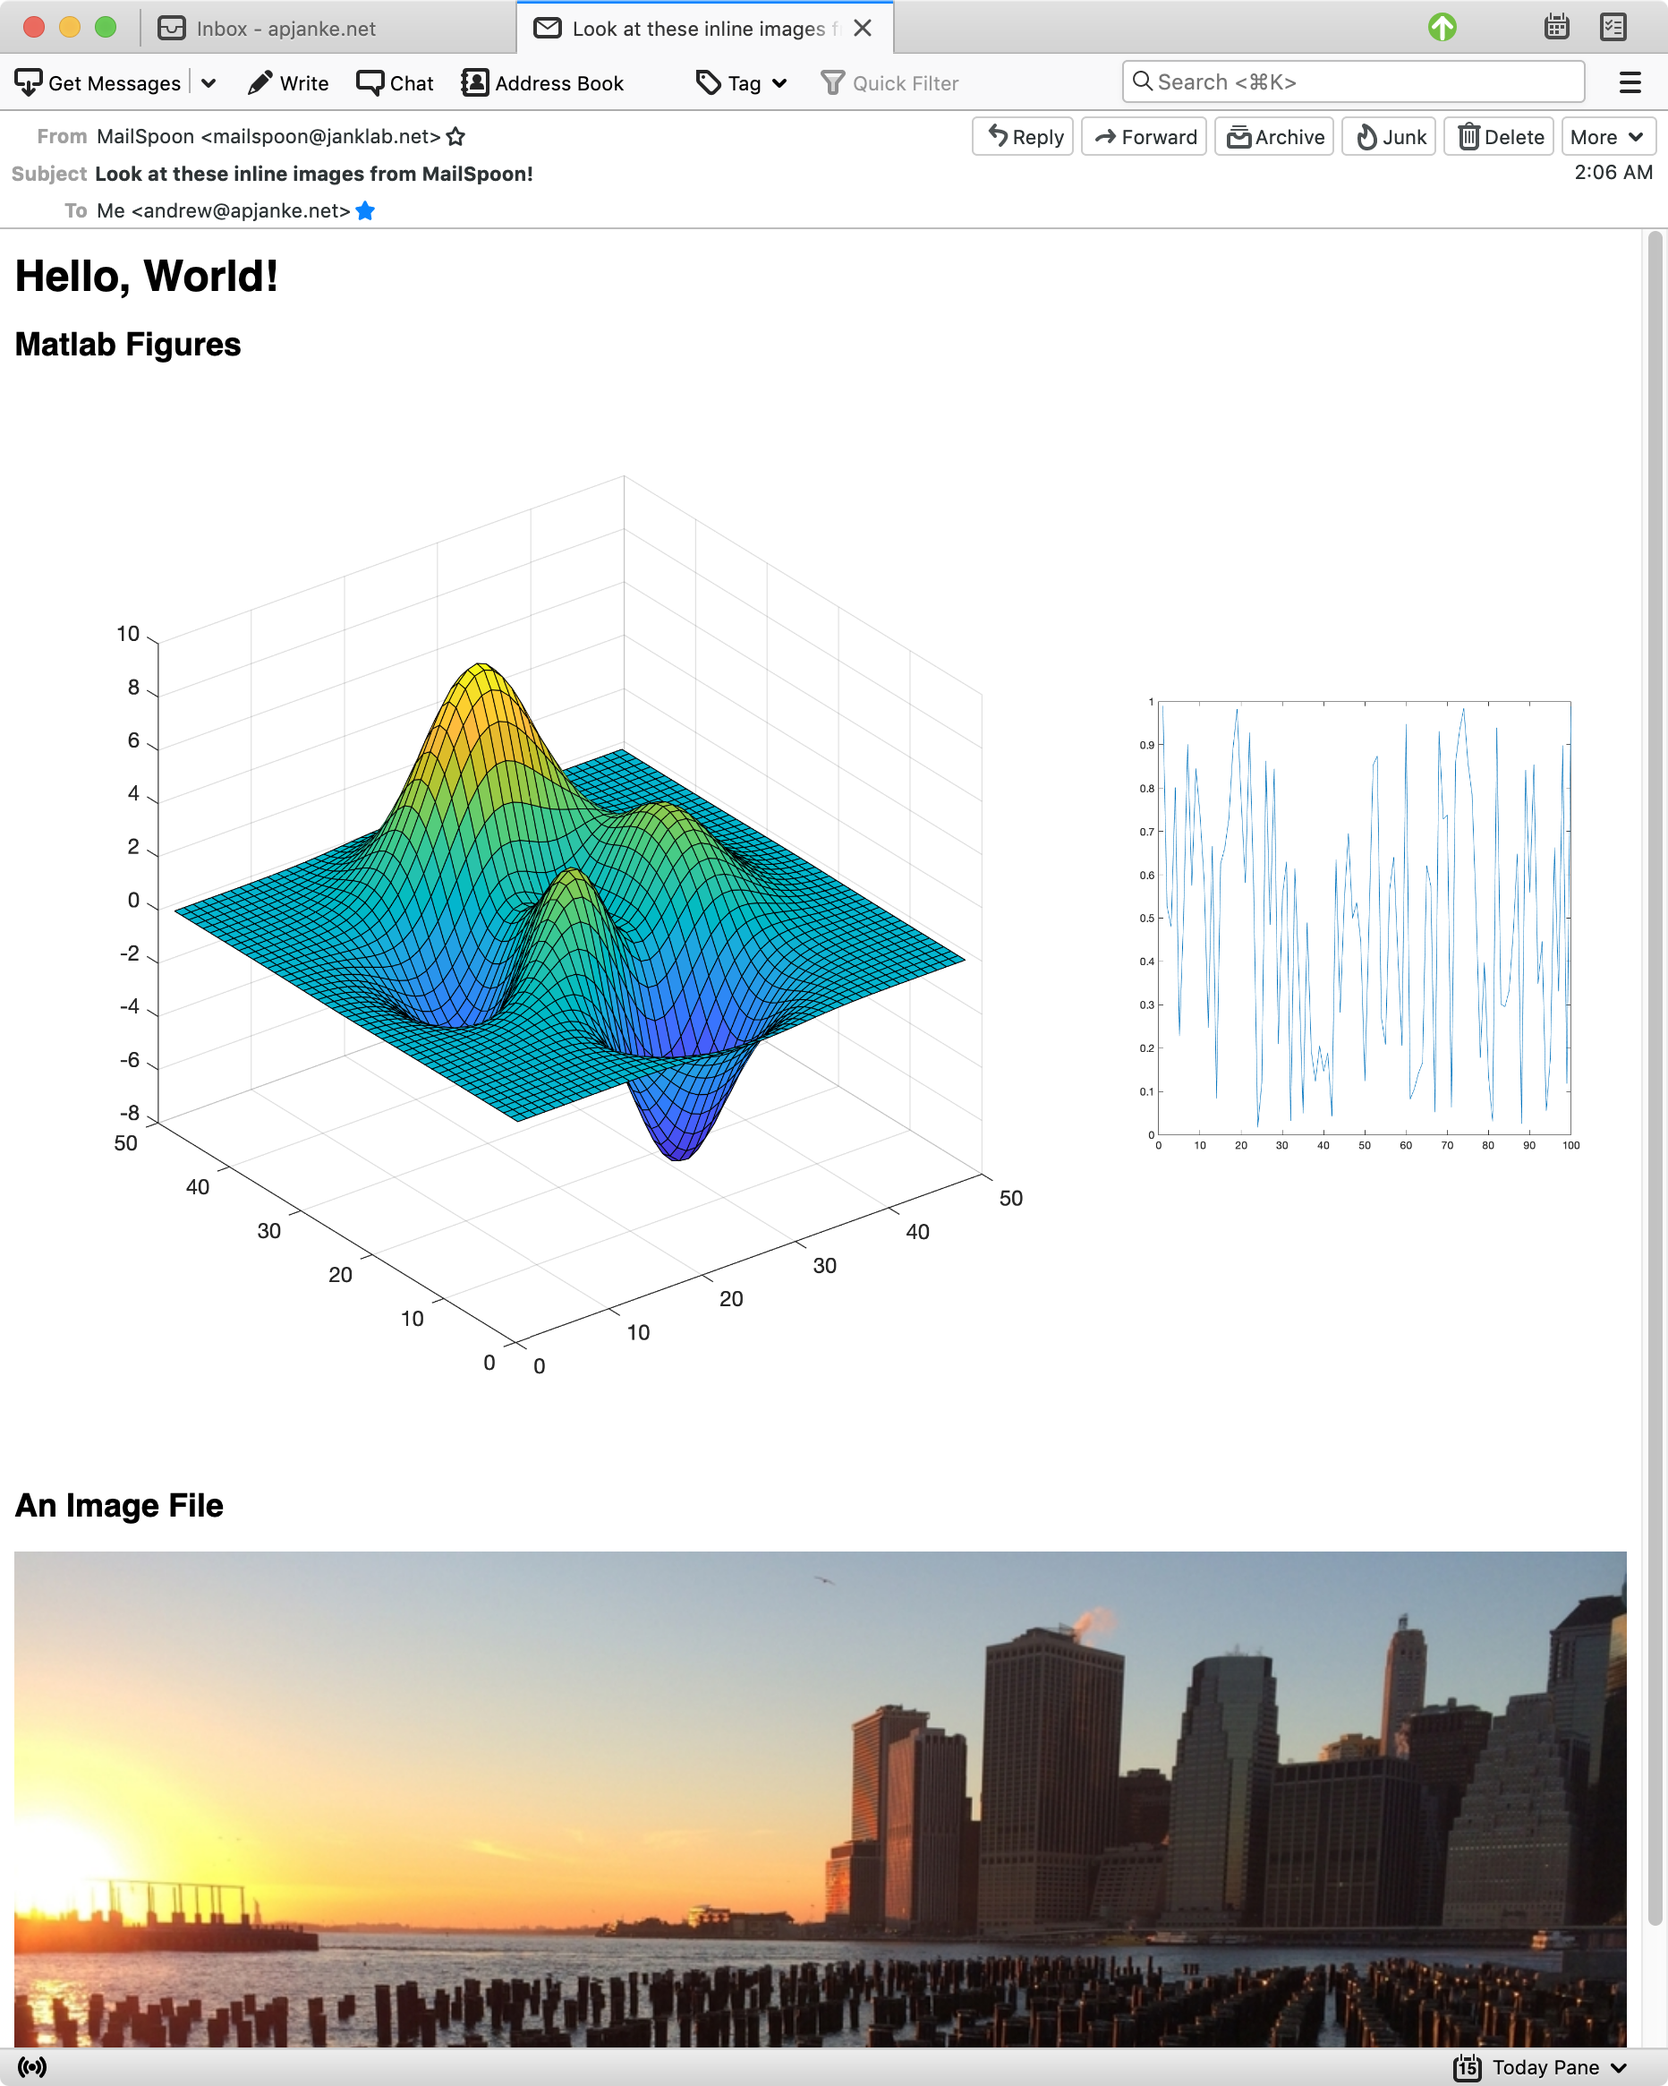
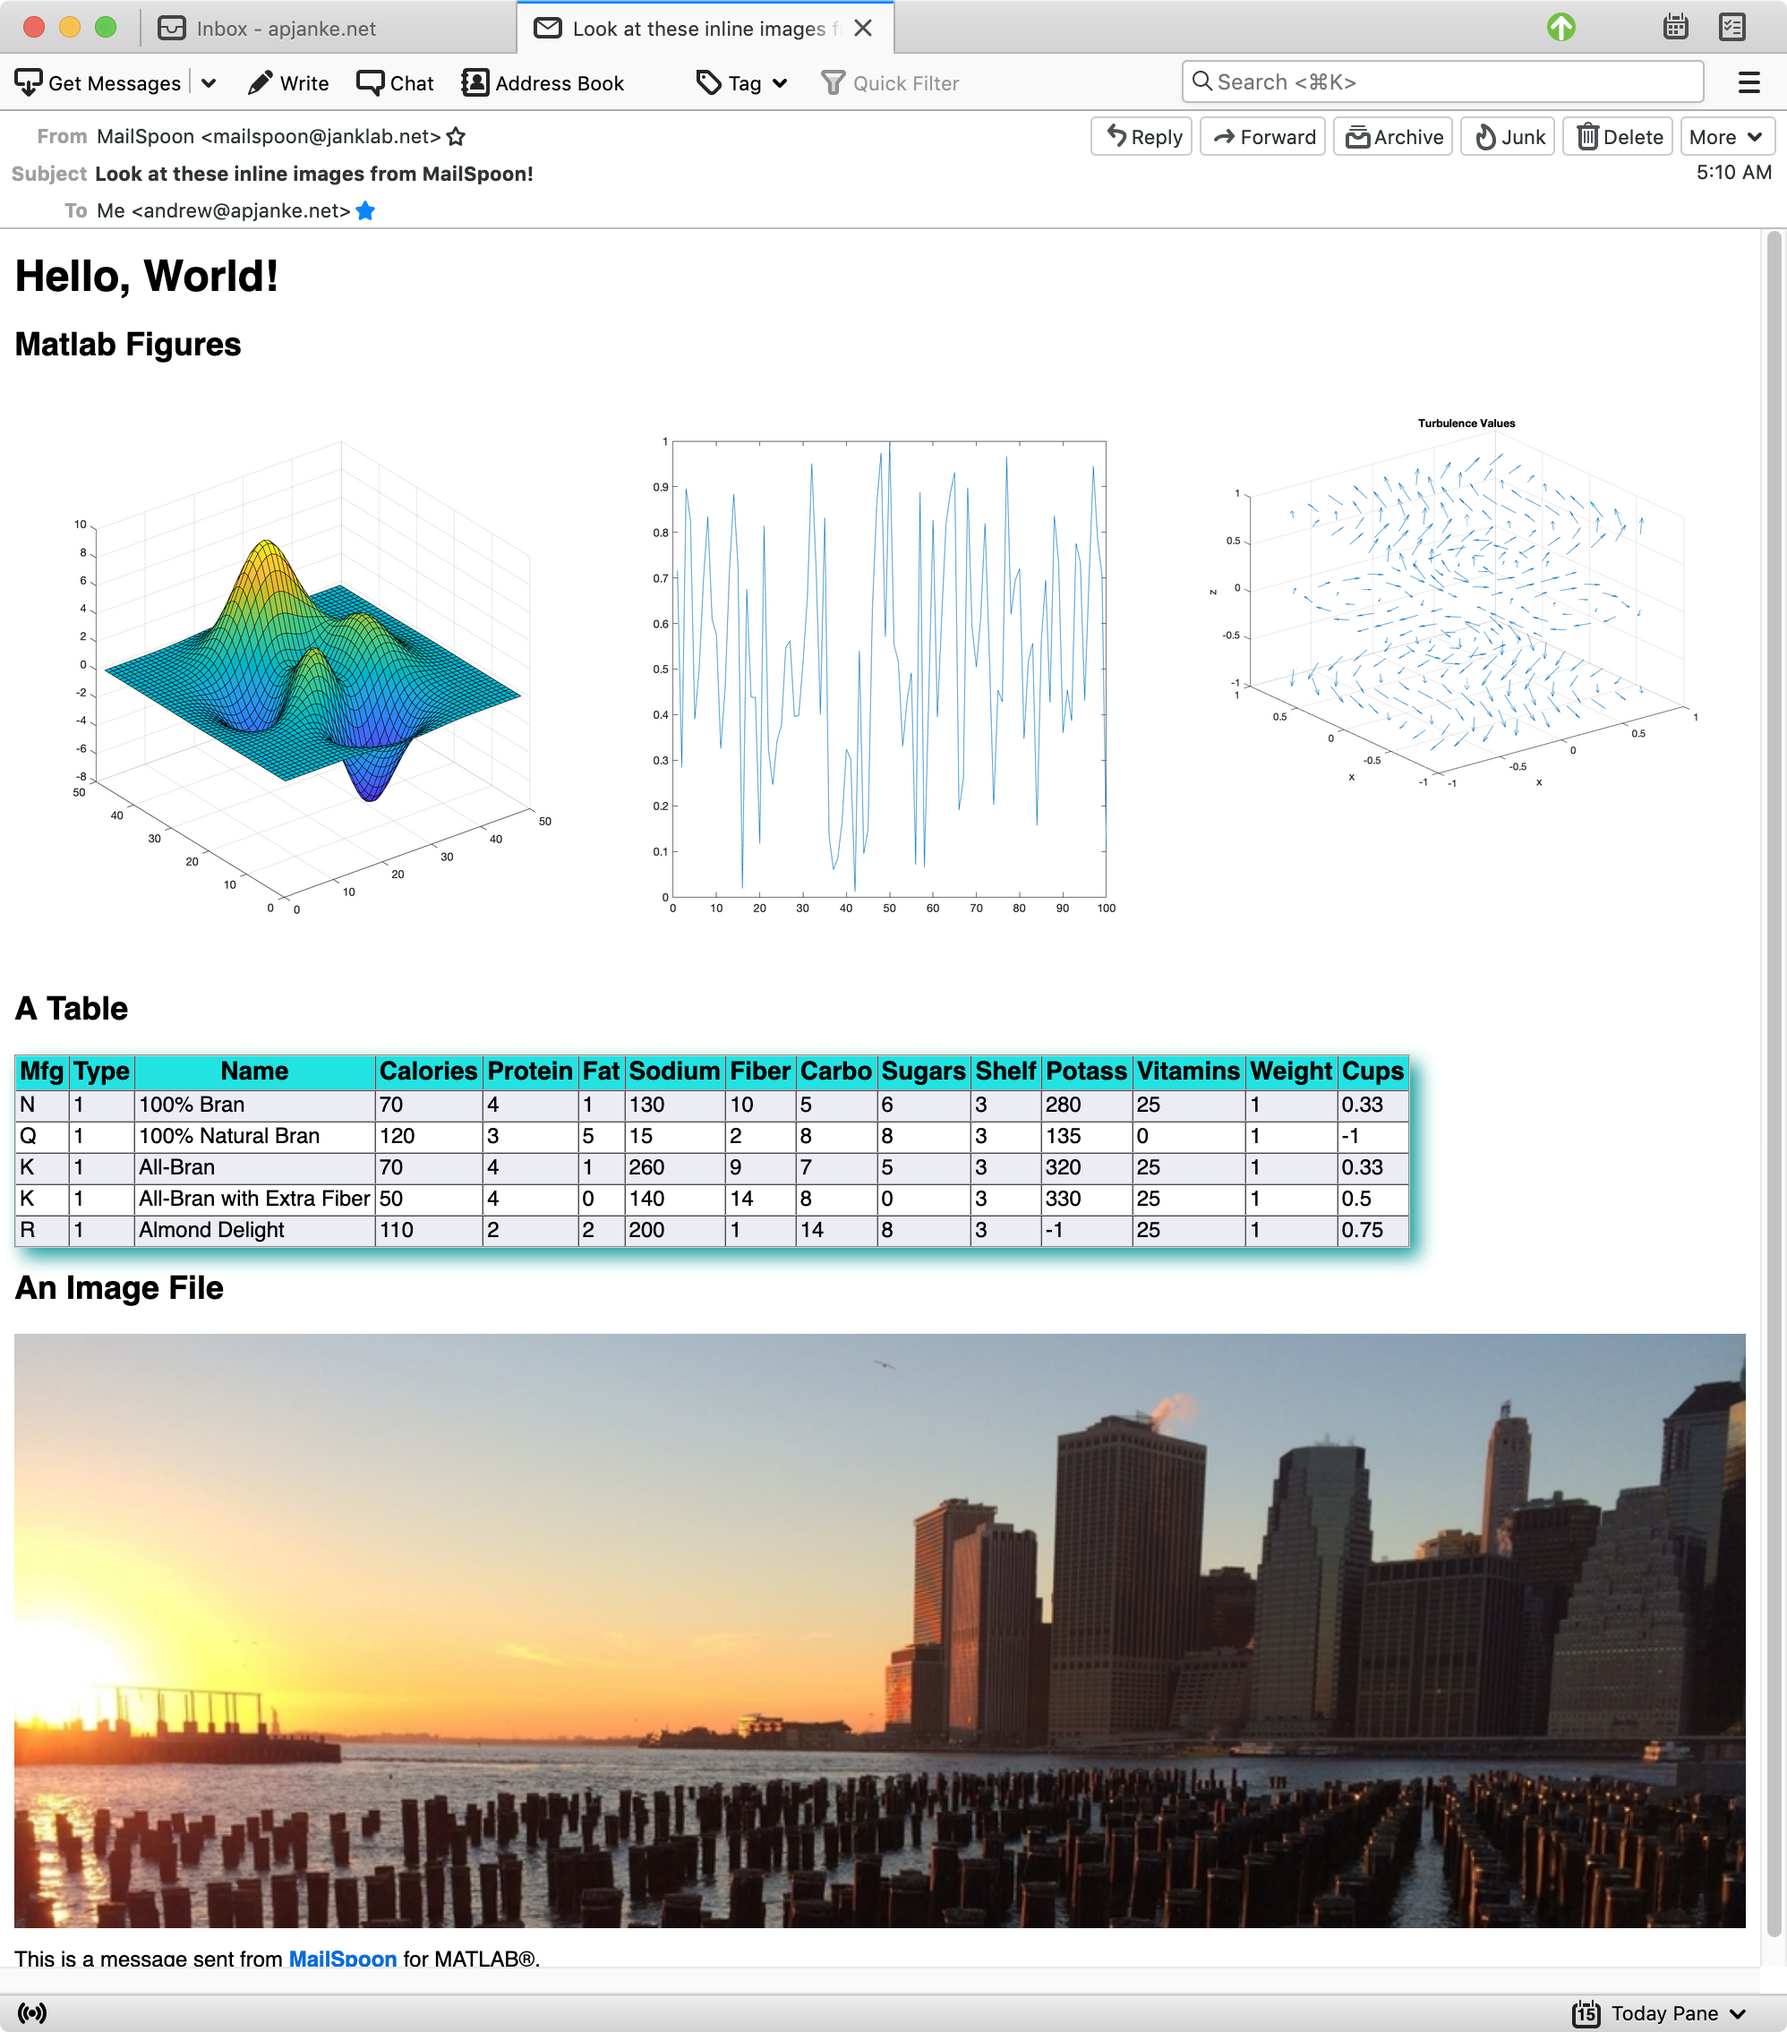
Squeeze more into example screenshot

diff --git a/examples/screenshotExample.m b/examples/screenshotExample.m
@@ -21,21 +21,42 @@ plot(x, y);
 fig2_cid = e.embedFigurePrint(fig, 'Some Lines.png');
 close(fig);
 
+fig = quiver3d;
+fig3_cid = e.embedFigurePrint(fig, 'Quiver Plot.png');
+close(fig);
+
 file = fullfile(mailspoon.libinfo.distroot, 'examples', 'Brooklyn.jpg');
 file_cid = e.embed(file);
+
+tbl = sampledata.cereal;
+tableHtml = mailspoon.htmlify(tbl(1:5,:));
+
+css = mailspoon.internal.Common.CssStyles.teal;
+% Flexbox
+css = css + sprintf(strjoin({
+  ''
+  '.imgs_row { display: flex }  .imgs_col { flex: 50%%; padding: 5px; }'
+  }));
 
 % Then create your HTML using those cids
 
 e.html = sprintf(strjoin({
   '<html>'
+  '<head>'
+  '  <style>%s</style>'
+  '</head>'
   '<body>'
   '<h1>Hello, World!</h1>'
   ''
-  '<h2>Matlab Figures</h2>'
-  '<table border=0><tr>'
-  '<td><img src=cid:%s></td>'
-  '<td><img src=cid:%s></td>'
-  '</tr></table>'
+  '<h2>Matlab Figures</h2>'  
+  '<div class="imgs_row">'
+  '  <div class="imgs_col"><img src=cid:%s style="width:100%%"></div>'
+  '  <div class="imgs_col"><img src=cid:%s style="width:100%%"></div>'
+  '  <div class="imgs_col"><img src=cid:%s style="width:100%%"></div>'
+  '</div>'
+  ''
+  '<h2>A Table</h2>'
+  '%s'
   ''
   '<h2>An Image File</h2>'
   '<img src=cid:%s>'
@@ -46,8 +67,28 @@ e.html = sprintf(strjoin({
   ''
   '</html>'
   '</body>'
-  }, '\n'), fig_cid, fig2_cid, file_cid);
+  }, '\n'), css, fig_cid, fig2_cid, fig3_cid, tableHtml, file_cid);
 
 e.send
 
 end
+
+function out = quiver3d
+% Create a grid of x,y, and z values
+[x, y, z] = meshgrid(-0.8:0.2:0.8, -0.8:0.2:0.8, -0.8:0.8:0.8);
+% Calculate homogenous turbulence values at each (x,y,z)
+u = sin(pi*x).*cos(pi*y).*cos(pi*z);
+v = -cos(pi*x).*sin(pi*y).*cos(pi*z);
+w = sqrt(2/3)*cos(pi*x).*cos(pi*y).*sin(pi*z);
+% Draw a 3 dimensional quiver plot using the quiver3 function
+out = figure('Visible','off');
+quiver3(x, y, z, u, v, z)
+% Set the axis limits
+axis([-1 1 -1 1 -1 1])
+% Add title and axis labels
+title('Turbulence Values')
+xlabel('x')
+ylabel('x')
+zlabel('z')
+end
+
